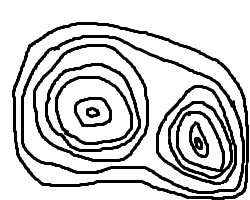
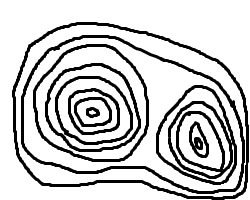
Add one more line on the left hill.

Changed region(s): [[0.252, 0.42, 0.504, 0.69]]

diff --git a/src/contour_line.rs b/src/contour_line.rs
@@ -263,10 +263,10 @@ mod tests {
     }
 
     #[test]
-    fn test_twelve_contour_lines_in_two_hills() {
+    fn test_thirteen_contour_lines_in_two_hills() {
         let file_path = Path::new(env!("CARGO_MANIFEST_DIR")).join("assets/two_hills.png");
         let (contour_lines, _, _) = get_contour_line_tree_from(file_path.to_str().unwrap());
 
-        assert_eq!(contour_lines.size(), 12);
+        assert_eq!(contour_lines.size(), 13);
     }
 }
